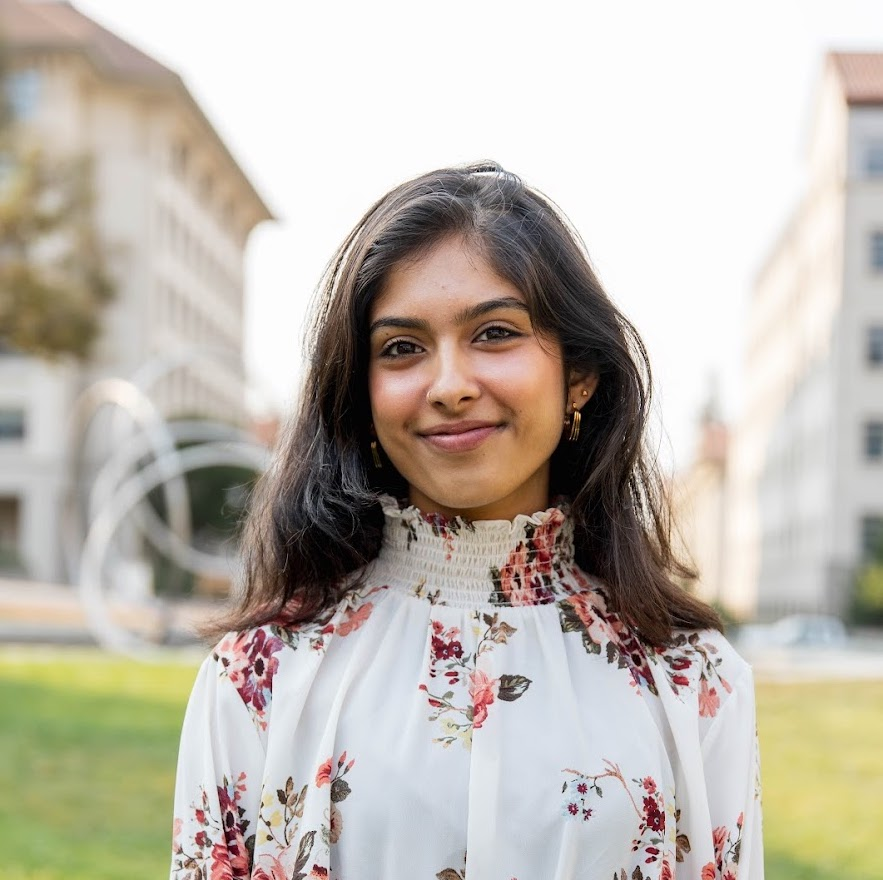
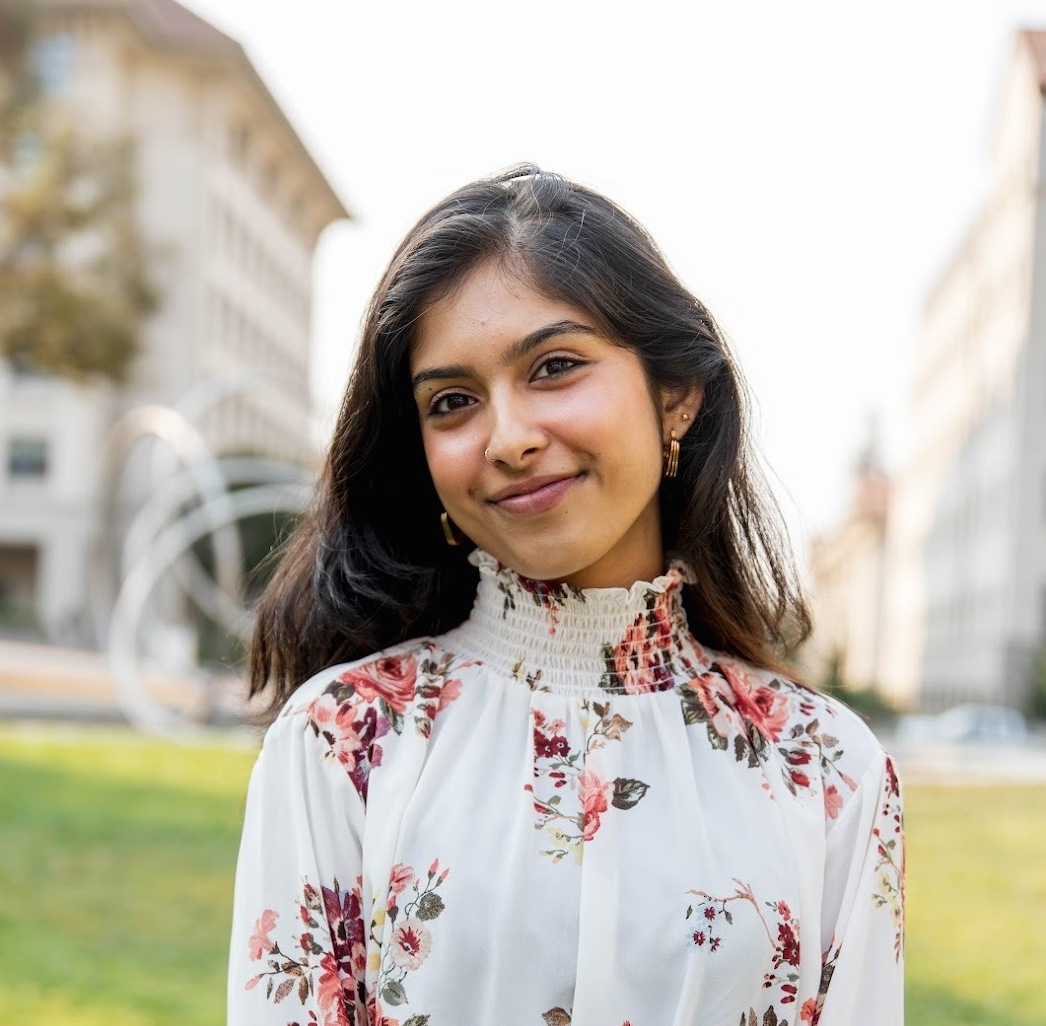
add application link, edit pictures

diff --git a/client/src/App.js b/client/src/App.js
@@ -116,8 +116,8 @@ class App extends Component {
                   bodyAttributes={{ style: "background-color : #ffffff" }}
                 />
                 <NavBar {...props} />
-                {/* <script src="https://static.airtable.com/js/embed/embed_snippet_v1.js"></script>
-                <iframe
+                <script src="https://static.airtable.com/js/embed/embed_snippet_v1.js"></script>
+                {/* <iframe
                   class="airtable-embed airtable-dynamic-height"
                   src="https://airtable.com/embed/shrqlxFIopQmX4PZX?backgroundColor=red"
                   frameborder="0"
@@ -129,6 +129,15 @@ class App extends Component {
                     border: "1px solid #ccc",
                   }}
                 ></iframe> */}
+                <iframe 
+                  class="airtable-embed airtable-dynamic-height" 
+                  src="https://airtable.com/embed/shrgxP6fay1ABIlYN?backgroundColor=blue" 
+                  frameborder="0" onmousewheel="" width="100%" height="2849" 
+                  style={{
+                    background: "transparent",
+                    border: "1px solid #ccc",
+                  }}>
+                  </iframe>
               </div>
             )}
           />
@@ -142,8 +151,8 @@ class App extends Component {
                   bodyAttributes={{ style: "background-color : #ffffff" }}
                 />
                 <NavBar {...props} />
-                {/* <script src="https://static.airtable.com/js/embed/embed_snippet_v1.js"></script>
-                <iframe
+                <script src="https://static.airtable.com/js/embed/embed_snippet_v1.js"></script>
+                {/* <iframe
                   class="airtable-embed airtable-dynamic-height"
                   src="https://airtable.com/embed/shrmRyFDRJ9nKLmi4?backgroundColor=purple"
                   frameborder="0"
@@ -155,6 +164,17 @@ class App extends Component {
                     border: "1px solid #ccc",
                   }}
                 ></iframe> */}
+
+                <iframe 
+                  class="airtable-embed" 
+                  src="https://airtable.com/embed/shrgxP6fay1ABIlYN?backgroundColor=blue" 
+                  frameborder="0" onmousewheel="" width="100%" height="2849" 
+                
+                  style={{
+                    background: "transparent",
+                    border: "1px solid #ccc",
+                  }}>
+                  </iframe>
               </div>
             )}
           />
@@ -168,8 +188,8 @@ class App extends Component {
                   bodyAttributes={{ style: "background-color : #ffffff" }}
                 />
                 <NavBar {...props} />
-                {/* <script src="https://static.airtable.com/js/embed/embed_snippet_v1.js"></script>
-                <iframe
+                <script src="https://static.airtable.com/js/embed/embed_snippet_v1.js"></script>
+                {/* <iframe
                   class="airtable-embed airtable-dynamic-height"
                   src="https://airtable.com/embed/shrKLwan5Jjt5Rkkl?backgroundColor=purple"
                   frameborder="0"
@@ -181,6 +201,16 @@ class App extends Component {
                     border: "1px solid #ccc",
                   }}
                 ></iframe> */}
+                <iframe 
+                  class="airtable-embed" 
+                  src="https://airtable.com/embed/shrgxP6fay1ABIlYN?backgroundColor=blue" 
+                  frameborder="0" onmousewheel="" width="100%" height="2849" 
+                  
+                  style={{
+                    background: "transparent",
+                    border: "1px solid #ccc",
+                  }}>
+                  </iframe>
               </div>
             )}
           />

diff --git a/client/src/generalmember.js b/client/src/generalmember.js
@@ -421,7 +421,7 @@ class DecalLearn extends Component {
            
               <Grid.Column>
                 <div style={{ textAlign: "center", marginTop: "10vw",}}>
-                  {CustomTitleBlack({ title: "Schedule" })}
+                  {CustomTitleBlack({ title: "Schedule (Spring 2020)" })}
 
                   <div style={{margin: "0 auto", maxWidth: "22vw"}}>
                     <Image src={gmLine2}></Image>
@@ -467,7 +467,7 @@ class DecalLearn extends Component {
           </Grid.Row>
 
           <Grid.Row style={{ marginTop: "6vw", marginBottom: "4vw" }}>
-          {CustomTitleBlack({ title: "Course Staff" })}
+          {CustomTitleBlack({ title: "Directors" })}
           
           <div style={{margin: "0 auto", maxWidth: "28vw"}}>
                     <Image src={gmLine2}></Image>
@@ -521,7 +521,7 @@ class DecalLearn extends Component {
                 {" "}
                 <Image style={imagestyle} src={pranati} />
                 <Card.Content>
-                  <Card.Header style={textstyle}>Pranati Modumodi</Card.Header>
+                  <Card.Header style={textstyle}>Pranati Modumudi</Card.Header>
                   <Card.Meta style={{ marginTop: "1vw" }}>
                     <span style={{ roleStyle }}>
                       Director of Academic Development

diff --git a/client/src/footer.js b/client/src/footer.js
@@ -172,14 +172,14 @@ class Footer extends Component {
                     </List.Item>
                   </Link>
                   <br /> <br />
-                  <Link to="/decal">
+                  {/* <Link to="/decal">
                     {" "}
                     <List.Item as="a" style={footer}>
                       {" "}
                       DeCal{" "}
                     </List.Item>
                   </Link>
-                  <br /> <br />
+                  <br /> <br /> */}
                   <Link to="socialgood">
                     {" "}
                     <List.Item as="a" style={footer}>
@@ -240,12 +240,12 @@ class Footer extends Component {
                       General Membership{" "}
                     </List.Item>
                   </Link>
-                  <br /> <br />
+                  {/* <br /> <br />
                   <Link to="/decallearn">
                     <List.Item as="a" style={footer}>
                       DeCal Course{" "}
                     </List.Item>
-                  </Link>{" "}
+                  </Link>{" "} */}
                   <br />
                   <br />
                 </List>

diff --git a/client/src/about.js b/client/src/about.js
@@ -34,7 +34,7 @@ import marlon from "./Leadership Headshots/marlon.jpeg";
 import pranati from "./Leadership Headshots/pranati.jpeg";
 import steven from "./Leadership Headshots/steven.jpeg";
 import michelle from "./Leadership Headshots/michelle.jpeg";
-import siddhant from "./Leadership Headshots/siddhanth.jpg";
+import siddhant from "./Leadership Headshots/siddhant.jpeg";
 
 import pm from "./About/pmgroup.jpeg";
 import exec from "./About/exec.jpeg";
@@ -437,7 +437,7 @@ const leadershipCards = [
     {" "}
     <Image style={imagestyle} src={pranati} />
     <Card.Content>
-      <Card.Header style={textstyle}>Pranati Modumodi</Card.Header>
+      <Card.Header style={textstyle}>Pranati Modumudi</Card.Header>
       <Card.Meta style={{ marginTop: "1vw" }}>
         <span style={roleStyle}>Director of Acadev</span>
       </Card.Meta>
